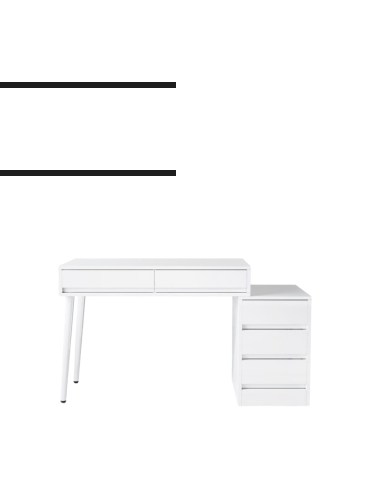
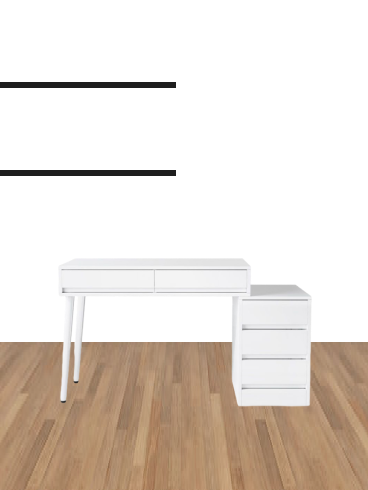
added floor and styled it

Changed region(s): [[0.0, 0.6735, 1.0, 1.0]]

diff --git a/src/components/EditableComponent.tsx b/src/components/EditableComponent.tsx
@@ -84,7 +84,7 @@ interface Element {
 // Define positions for each category
 const categoryPositions = {
   PETS: { x: -20, y: 280 },
-  FOOD: { x: 200, y: 200 },
+  FOOD: { x: 180, y: 180 },
   SHELF1: { x: 30, y: 10 },
   SHELF2: { x: 30, y: -70 },
   SHELF3: { x: -30, y: 10 },
@@ -237,7 +237,7 @@ const EditableComponent: React.FC = () => {
 
   return (
     <div
-      className="relative w-full min-h-screen text-white p-4"
+      className="relative w-full min-h-screen text-white"
       style={{ backgroundColor }}
       onClick={handleBackgroundClick}
     >
@@ -246,14 +246,25 @@ const EditableComponent: React.FC = () => {
           src="/assets/bedroom-base.png"
           alt="Table and Chair"
           style={{
-            width: "450px",
-            height: "450px",
+            width: "600px",
+            height: "500px",
             position: "absolute",
             top: "50%",
             left: "50%",
-            transform: "translate(-55%, 0%)",
+            transform: "translate(-50%, -0%)",
           }}
         />
+        {/* <img
+          src="/assets/floor.png"
+          alt="Floor"
+          style={{
+            width: "480px",
+            height: "300px",
+            position: "absolute",
+            transform: "translate(0%, 110%)",
+            zIndex: "-1",
+          }}
+        /> */}
         {elements.map((element) => (
           <DraggableElement
             key={element.id}
@@ -375,6 +386,7 @@ const DraggableElement: React.FC<DraggableElementProps> = ({
               height: type === "gif" ? "auto" : dimensions?.height,
               pointerEvents: "none",
               display: type === "gif" || dimensions ? "block" : "none",
+              zIndex: "1000",
             }}
             draggable={false}
           />
